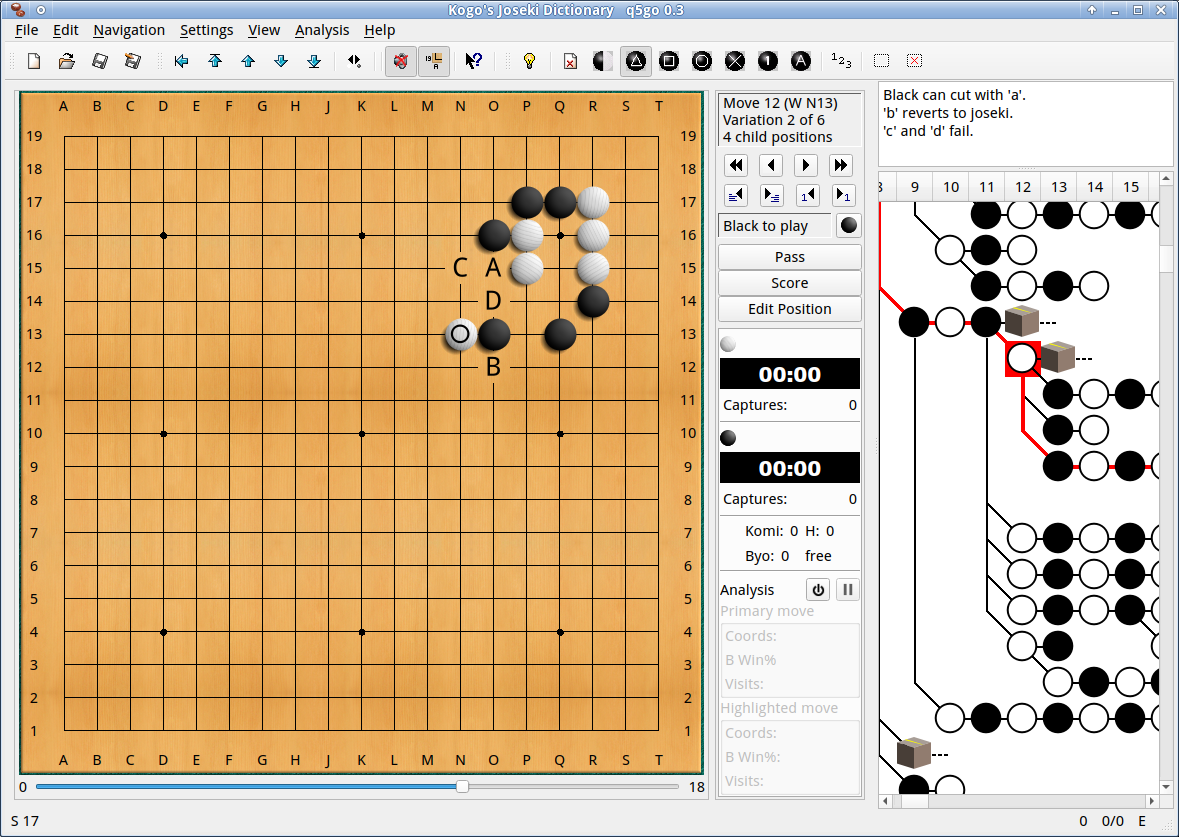
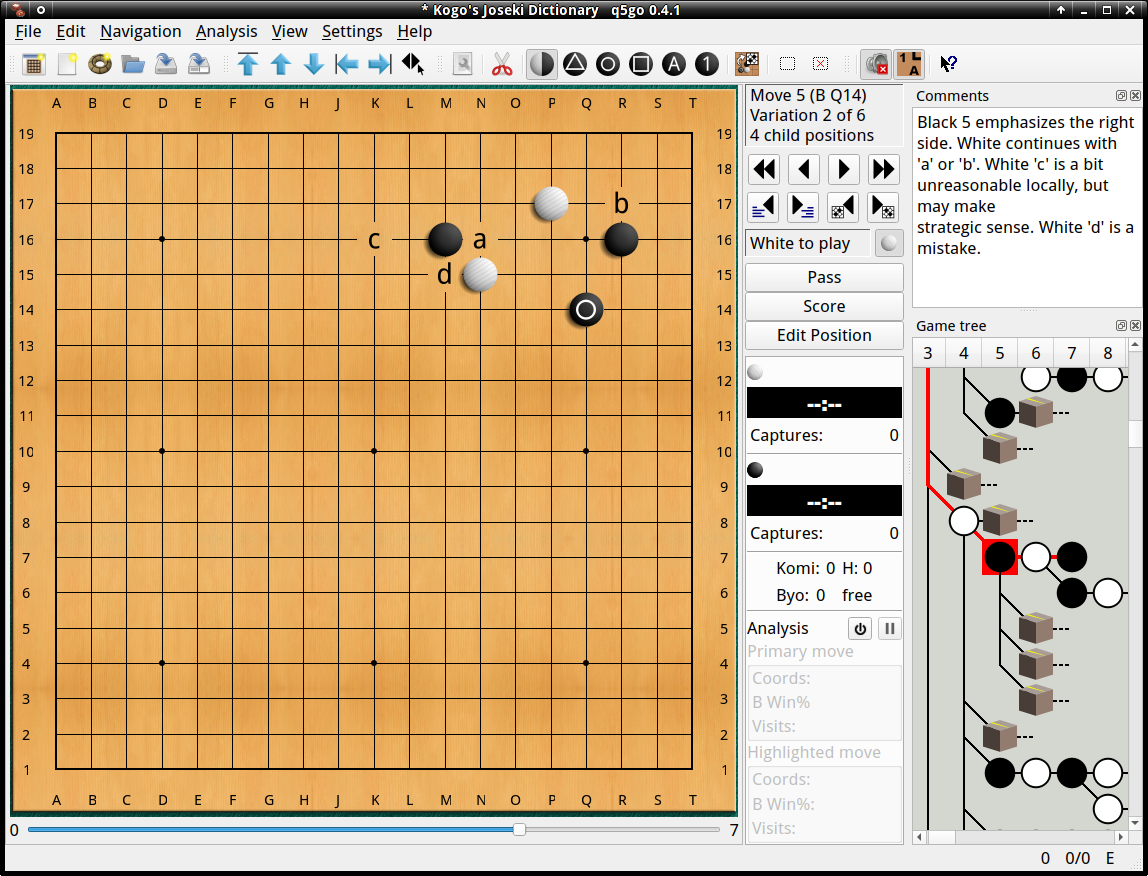
Update documentation for 0.5

diff --git a/src/config.h b/src/config.h
@@ -6,10 +6,12 @@
 #define PACKAGE1 "q5goClient"
 
 /* Version number of package */
-#define VERSION "0.4.1"
+#define VERSION "0.5"
 
-#define NEWVERSIONWARNING "<p>Welcome to version 0.4.1 of q5go.</p>\n" \
-  "<p>This version adds support for some non-standard Go variants: rectangular and toroidal boards.</p>" \
+#define NEWVERSIONWARNING "<p>Welcome to version 0.5 of q5go.</p>\n" \
+  "<p>This version adds support for diagrams, intended either for exporting or viewing variations on a separate board.</p>" \
+  "<p>There is also a new review feature to analyze entire games with an engine, which makes use of the diagram display for engine lines.</p>" \
+  "<p>The board window has a new UI layout, with elements like the comments view in freely draggable docks.</p>" \
   "<p>This message will not be shown anymore on startup.</p>"
 
 

diff --git a/README.md b/README.md
@@ -1,7 +1,10 @@
-## q5Go 0.4.1
+## q5Go 0.5
 
-This is a Go player's tool, an SGF editor/GTP interface/IGS client.  It is
-based on the old Qt3 version of qGo, but ported to Qt5 and modernized.
+This is a tool for Go players which performs the following functions:
+- SGF editor
+- Analysis frontend for Leela Zero (or compatible engines)
+- GTP interface
+- IGS client
 
 The basic goal for this program is to provide an everyday SGF editor
 that is fast, easy and convenient to use and does everything you could
@@ -10,17 +13,28 @@ Go diagram exporting function for sites like lifein19x19.com or
 Sensei's library, as well as SVG vector graphics export.  q5go also supports
 some non-standard Go variants.
 
+This program is based on the old Qt3 version of qGo, but ported to Qt5
+and modernized.
+
 ![screenshot](screens/screenshot.png)
 
-Version 0.4 adds the following features:
- * Support for rectangular boards
- * Support for toroidal boards (with an extended view option and
-   scrolling)
- * On-line observer lists, which were dropped in the initial versions
-   of q5go, are functioning again
- * Likewise for move time annotations
-
-Version 0.4.1 is a minor bugfix to add back the display of star points.
+Version 0.5 adds the following features:
+ * Support for diagrams.  These can be used to either subdivide a game into
+   printable diagrams, or to provide a variation display when browsing a
+   file in the editor.  The latter case is used by the engine analysis
+   mode.
+ * A new batch review mode, where the user can choose files to be reviewed
+   and hand them off to an engine.  The files can be viewed while the
+   analysis is in progress, and there is a winrate graph.
+ * A redesigned layout for the user interface.  The various elements of
+   the board window (comments, diagram display, game tree, evaluation
+   graph and observer list) now exist in docks and can be freely moved
+   around.  It is possible to save and restore these layouts.
+ * Most icons have been replaced with larger ones, and q5go now uses a
+   Qt feature for better results on high-DPI displays.  This is untested,
+   I would appreciate feedback as to how well it works on such devices.
+ * The command line options have changed.  They are now processed by
+   standard library functions and follow normal conventions as a result.
 
 See VERSION_HISTORY for a history of changes.
 
@@ -36,6 +50,14 @@ be added to the game record.
 
 ![screenshot](screens/analysis.png)
 
+There is also a batch analysis mode, where the use can queue a number of
+SGF files for analysis. Evaluations and variations are added automatically,
+the variations are presented as diagrams.  The file can be observed
+during analysis
+
+![screenshot](screens/batch.png)
+![screenshot](screens/new-analysis.png)
+
 ### Export
 q5Go allows the user to export board positions as ASCII diagrams suitable
 for Sensei's Library or the lifein19x19.com forums, or in the SVG vector
@@ -45,6 +67,16 @@ and it is possible to set a position as the start of move numbering, so
 that sequences of moves can be shown in the exported diagram.
 
 ![screenshot](screens/export.png)
+
+### SGF diagrams
+
+It is possible to set a game position as the start of a diagram.  This is
+has several use cases:
+- Subdividing a game record into printable diagrams.  Figures can be
+  exported to ASCII and SVG, in whole or in part, just like regular
+  board positions.
+- Allowing variations to be shown in a separate board display
+- Neatly organizing engine lines when performing an analysis
 
 ### Configurable appearance
 
@@ -58,6 +90,15 @@ There are several presets for the wood image, and the user can also
 supply a custom file.
 
 ![screenshot](screens/gostones2.jpg)
+
+### Configurable user interface layout
+
+All optional elements of the board window reside in freely moveable and
+resizable docks, giving the user flexibility to create exactly the layout
+they want.  These layouts can be saved and restored, and the program
+tries to restore the correct layout whenever a new window is opened.
+
+![screenshot](screens/docks.png)
 
 ### Go variants
 
@@ -75,14 +116,13 @@ with both axes set to be toroidal.
 
 ## Compiling
 
-Make a build subdirectory, enter it, and either run
+On Linux, make a build subdirectory, enter it, and run
 ```sh
-  ../configure
+  qmake ../src/q5go.pro PREFIX=/where/you/want/to/install
 ```
-or
-```sh
-  qmake ../src/q5go.pro
-```
+followed by make and make install.  If the pandoc tool is installed, this
+README.md file will be converted to html and installed, and can then be
+viewed through a menu option.
 
-followed by make.  The latter is probably recommended as the automake system
-is somewhat cobbled-together.
+On Windows, download the Qt tools and import the q5go.pro project file
+into Qt Creator.
